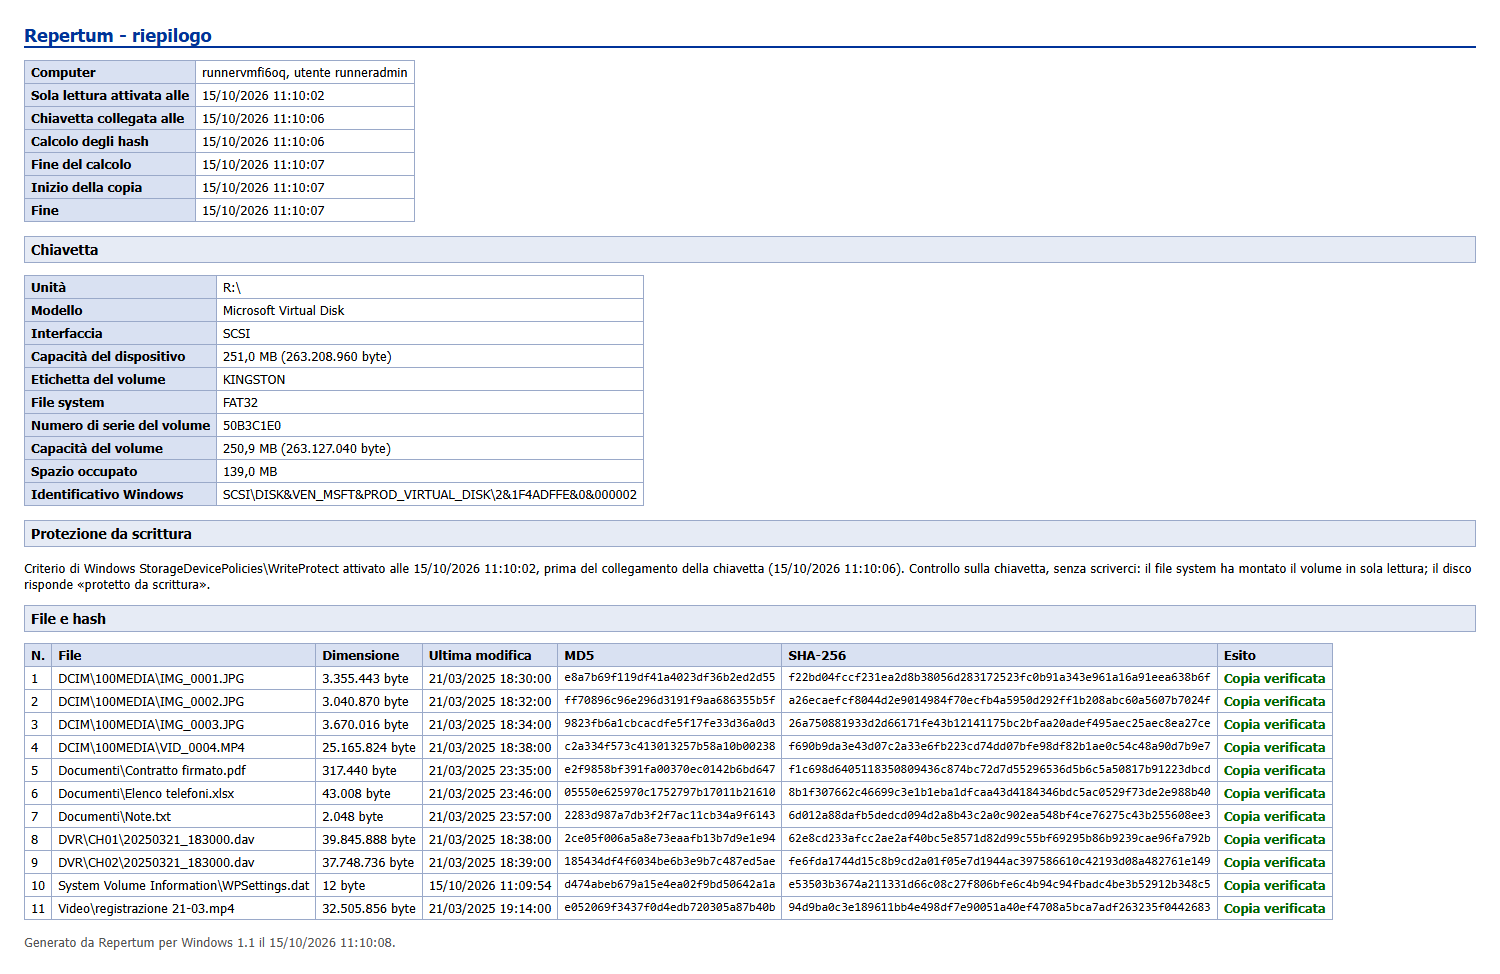
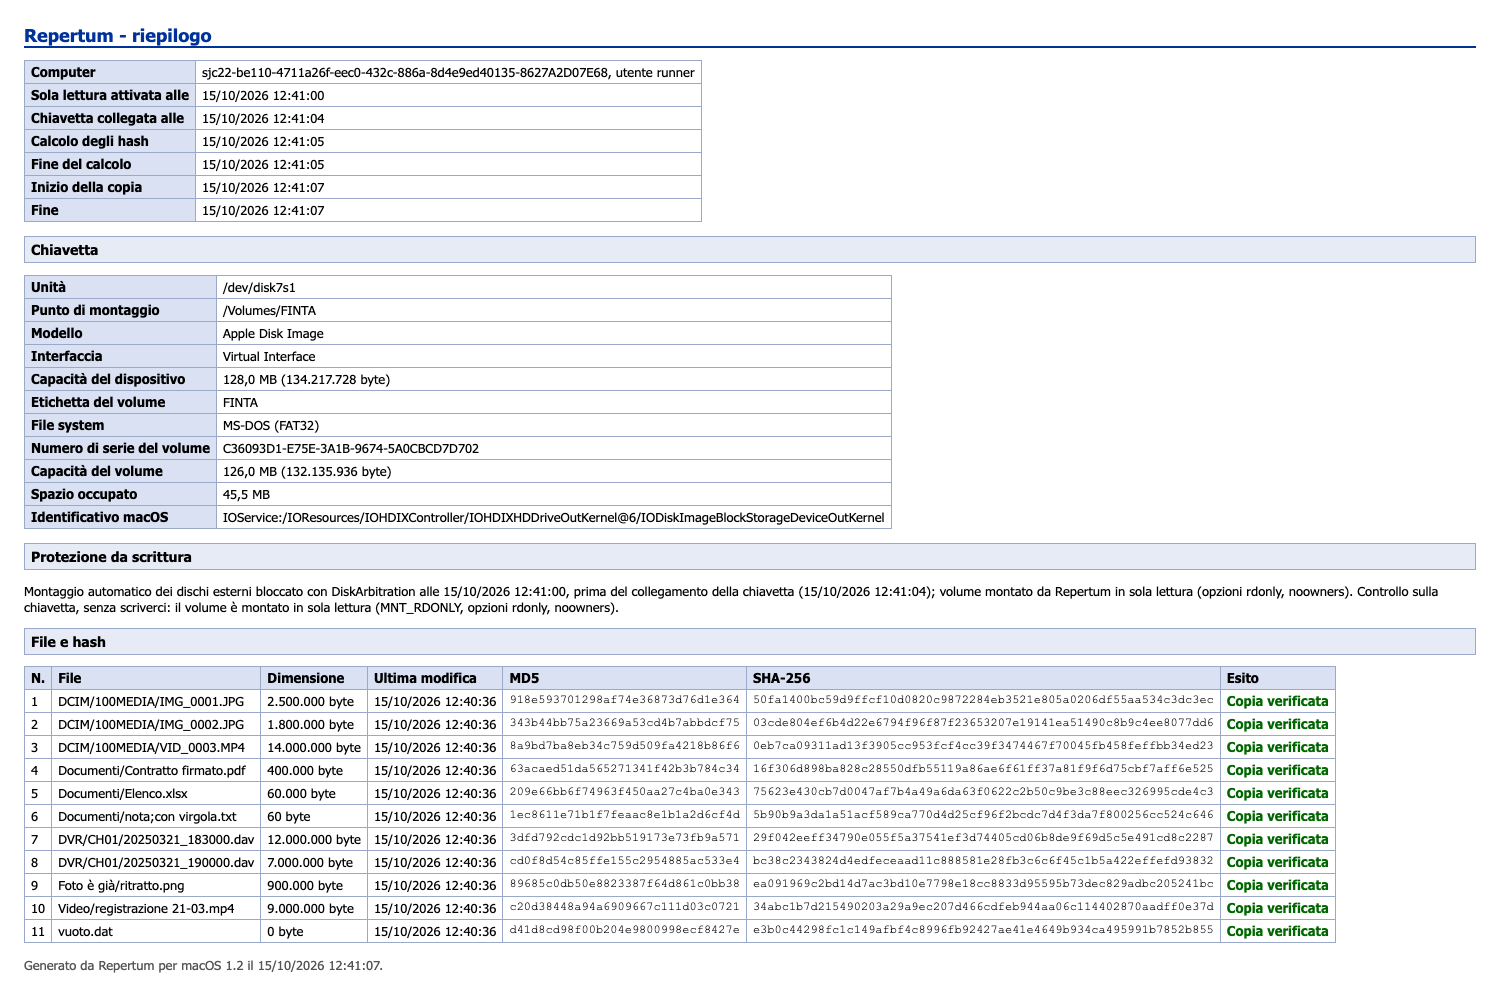
docs: README, novità, GIF di macOS e Linux e rapporto d'esempio

Changed region(s): [[0.0, 0.0308, 0.9813, 0.9856]]

diff --git a/tools/gif/crea_gif.py b/tools/gif/crea_gif.py
@@ -11,6 +11,7 @@ cosi' la registrazione resta fedele e la GIF si puo' rifare con altri tempi.
 Uso:
     python3 crea_gif.py <fotogrammi> <uscita.gif> [--larghezza 880]
                         [--pausa-max 1600] [--fine 3500] [--velocita 1.0]
+                        [--da f00002.png] [--fino-a f00063.png]
 """
 import argparse
 import csv
@@ -116,9 +117,16 @@ def main():
     a.add_argument("--pausa-max", type=int, default=1600, help="durata massima di un fotogramma fermo (ms)")
     a.add_argument("--fine", type=int, default=3500, help="durata dell'ultimo fotogramma (ms)")
     a.add_argument("--velocita", type=float, default=1.0, help=">1 accelera le parti in movimento")
+    a.add_argument("--da", help="primo fotogramma da usare (nome del PNG)")
+    a.add_argument("--fino-a", help="ultimo fotogramma da usare (nome del PNG)")
     o = a.parse_args()
 
-    fotogrammi = componi(leggi(o.fotogrammi), o.pausa_max, o.fine, o.velocita)
+    righe = leggi(o.fotogrammi)
+    nomi = [os.path.basename(r["file"]) for r in righe]
+    inizio = nomi.index(o.da) if o.da else 0
+    fine = nomi.index(o.fino_a) + 1 if o.fino_a else len(righe)
+    righe = righe[inizio:fine]
+    fotogrammi = componi(righe, o.pausa_max, o.fine, o.velocita)
     rgb = []
     for img, ms in fotogrammi:
         img = img.convert("RGB")

diff --git a/README.md b/README.md
@@ -1,0 +1,262 @@
+<div align="center">
+
+<img src="docs/icona.png" width="96" alt="">
+
+# Repertum
+
+**Copia i file di una chiavetta USB senza alterarla, con l'hash di ogni file e un report pronto da allegare.**
+
+Blocca la scrittura prima che la chiavetta venga collegata, la legge in sola lettura, calcola SHA-256 e MD5,
+copia i file e controlla che ogni copia sia identica all'originale. Una finestra, un pulsante.
+
+[![Ultima versione](https://img.shields.io/github/v/release/erold90/repertum?label=versione&color=2563eb)](https://github.com/erold90/repertum/releases/latest)
+[![Windows](https://img.shields.io/github/actions/workflow/status/erold90/repertum/windows.yml?branch=main&label=Windows&logo=windows)](https://github.com/erold90/repertum/actions/workflows/windows.yml)
+[![macOS](https://img.shields.io/github/actions/workflow/status/erold90/repertum/macos.yml?branch=main&label=macOS&logo=apple)](https://github.com/erold90/repertum/actions/workflows/macos.yml)
+[![Linux](https://img.shields.io/github/actions/workflow/status/erold90/repertum/linux.yml?branch=main&label=Linux&logo=linux&logoColor=white)](https://github.com/erold90/repertum/actions/workflows/linux.yml)
+![rete: nessuna](https://img.shields.io/badge/rete-nessuna-3ddc97)
+[![Licenza MIT](https://img.shields.io/badge/licenza-MIT-lightgrey)](LICENSE)
+
+[**Scarica**](https://github.com/erold90/repertum/releases/latest) · [Come si usa](#come-si-usa) · [Cosa produce](#cosa-trovi-nella-cartella-salvata) · [Come funziona](#come-funziona-il-blocco-della-scrittura) · [Limiti](#limiti) · [English](#in-english)
+
+</div>
+
+<p align="center">
+  <img src="docs/windows.gif" alt="Repertum su Windows: si collega la chiavetta, Repertum la legge e calcola gli hash, si preme «Salva copia e hash» e ogni copia viene verificata" width="880">
+  <br>
+  <sub>Registrazione vera su Windows, fatta dal collaudo automatico con una chiavetta simulata.</sub>
+</p>
+
+## Perché
+
+Collegare una chiavetta a un computer la modifica, anche se non si apre nessun file:
+
+- **Windows** ci crea `System Volume Information`;
+- **macOS** ci scrive `.Spotlight-V100`, `.fseventsd` e i file `._`;
+- **Linux** può riprodurre il journal di un file system ext4 e aggiornarne la data di montaggio.
+
+Quando la chiavetta è una prova, o un documento da conservare così com'è, queste scritture
+sono un problema: cambiano il supporto e mettono in discussione le copie.
+
+Repertum fa le cose nell'ordine giusto:
+
+1. **blocca la scrittura** prima che la chiavetta venga collegata;
+2. **controlla** che risulti davvero in sola lettura, senza scriverci;
+3. **legge** ogni file e ne calcola SHA-256 e MD5;
+4. **copia** i file e **rilegge ogni copia** per confrontarne l'hash con l'originale;
+5. **scrive un report** con tutto quello che è successo e quando;
+6. alla chiusura **rimette il computer com'era**.
+
+Il nome viene dal latino *repertum*, «ciò che è stato trovato»: in italiano, il reperto.
+
+## Scarica
+
+| Sistema | File | Note |
+|---|---|---|
+| **Windows** 10 e 11 | [`Repertum.exe`](https://github.com/erold90/repertum/releases/latest/download/Repertum.exe) | Un file da circa 150 KB. Usa .NET Framework 4.8, che Windows ha già |
+| **macOS** 12 o successivo, Apple Silicon | [`Repertum-macos-arm64.zip`](https://github.com/erold90/repertum/releases/latest/download/Repertum-macos-arm64.zip) | `Repertum.app` |
+| **macOS** 12 o successivo, Intel | [`Repertum-macos-x64.zip`](https://github.com/erold90/repertum/releases/latest/download/Repertum-macos-x64.zip) | `Repertum.app` |
+| **Linux** x64 | [`Repertum-linux-x64.tar.gz`](https://github.com/erold90/repertum/releases/latest/download/Repertum-linux-x64.tar.gz) | Un eseguibile. Servono X11 o XWayland e `pkexec` (polkit) |
+
+Non si installa niente e non si collega a internet. Le impronte dei file scaricati sono in
+`SHA256SUMS.txt`, accanto a ogni rilascio.
+
+<details>
+<summary><b>Il primo avvio</b>: gli avvisi di Windows e macOS</summary>
+
+Repertum non è firmato con un certificato commerciale, quindi la prima volta il sistema avvisa.
+
+- **Windows**: «Windows ha protetto il PC» → *Ulteriori informazioni* → *Esegui comunque*.
+  Poi chiede di essere eseguito come amministratore: serve per attivare il blocco della scrittura.
+- **macOS**: tasto destro su `Repertum.app` → *Apri* → *Apri*. Sulle versioni più recenti:
+  *Impostazioni di Sistema* → *Privacy e sicurezza* → *Apri comunque*. La prima volta che legge
+  una chiavetta, macOS può chiedere il permesso di accedere ai volumi rimovibili: va concesso.
+- **Linux**: `tar xzf Repertum-linux-x64.tar.gz && ./Repertum/Repertum`. All'avvio chiede la
+  password di amministratore (pkexec) per il blocco della scrittura. Nella cartella ci sono anche
+  `repertum.desktop` e l'icona, per aggiungerlo al menu delle applicazioni.
+
+</details>
+
+## Come si usa
+
+1. **Apri Repertum prima di collegare la chiavetta.** Se ce n'è già una collegata, ti chiede di scollegarla.
+2. **Collega la chiavetta.** Repertum la riconosce, controlla che sia in sola lettura ed elenca i file mentre ne calcola gli hash.
+3. **Premi «Salva copia e hash».** I file sono già tutti spuntati; se togli le spunte, salva solo gli hash.
+4. **Scollega la chiavetta e chiudi Repertum.** Il computer torna com'era.
+
+Se accanto a «Blocco scrittura» compare un **avviso rosso**, la chiavetta non risulta in sola lettura:
+scollegala, riavvia il computer e riprova.
+
+### Anche su macOS e Linux
+
+Stessa finestra, stesso pulsante, stessi file prodotti.
+
+<table>
+  <tr>
+    <td width="50%"><img src="docs/macos.gif" alt="Repertum su macOS"></td>
+    <td width="50%"><img src="docs/linux.gif" alt="Repertum su Linux"></td>
+  </tr>
+  <tr>
+    <td align="center"><sub>macOS: la chiavetta viene montata in sola lettura da Repertum</sub></td>
+    <td align="center"><sub>Linux: la chiavetta diventa di sola lettura per il kernel</sub></td>
+  </tr>
+</table>
+
+### Ricontrollare le copie
+
+<p align="center">
+  <img src="docs/verifica.gif" alt="La scheda Verifica: prima tutto integro, poi un byte alterato in una copia e il file segnato in rosso" width="880">
+</p>
+
+Nella scheda **Verifica** scegli una cartella salvata da Repertum (oppure trascinala su `Repertum.exe`):
+ogni file viene riletto e confrontato con gli hash salvati. Basta un byte diverso perché il file risulti
+**alterato**. Serve prima di consegnare o caricare le copie, anche a distanza di anni.
+
+## Cosa trovi nella cartella salvata
+
+Ogni salvataggio va in una cartella nuova, chiamata con data, ora ed etichetta della chiavetta:
+`C:\Repertum\2026-10-15_1030_KINGSTON` su Windows, `~/Repertum/…` su macOS e Linux.
+Si può sceglierne un'altra con **Salva in**, prima di salvare.
+
+```text
+2026-10-15_1030_KINGSTON/
+├── File/              le copie, con le stesse cartelle della chiavetta (in sola lettura)
+├── RIEPILOGO.txt      il report: orari, chiavetta, protezione, ogni file con i suoi hash
+├── RAPPORTO.html      lo stesso report impaginato, da stampare
+├── HASH.sha256        gli hash SHA-256, nel formato di sha256sum
+├── HASH.md5           gli hash MD5, nel formato di md5sum
+├── INVENTARIO.csv     tutti i file con dimensione, date e hash; si apre con Excel
+└── LOG.txt            ogni operazione con il suo orario
+```
+
+`HASH.sha256` e `HASH.md5` si possono controllare anche senza Repertum:
+
+```sh
+cd 2026-10-15_1030_KINGSTON/File
+sha256sum -c ../HASH.sha256        # Linux
+shasum -a 256 -c ../HASH.sha256    # macOS
+```
+
+<details>
+<summary><b>Il report da stampare</b> (RAPPORTO.html)</summary>
+<br>
+<sub>Un rapporto vero, prodotto dal collaudo su macOS con una chiavetta simulata.</sub>
+<br>
+<img src="docs/rapporto.png" alt="Il rapporto HTML: orari, dati della chiavetta, protezione da scrittura e tabella dei file con MD5, SHA-256 ed esito della copia">
+</details>
+
+## Come funziona il blocco della scrittura
+
+<!-- WINDOWS -->
+### Windows
+
+All'avvio Repertum attiva il criterio di sistema `StorageDevicePolicies\WriteProtect`: da quel momento
+Windows monta **in sola lettura** ogni dispositivo di archiviazione USB che viene collegato.
+Il criterio vale solo per i dispositivi collegati dopo, ed è per questo che la chiavetta va collegata
+a Repertum già aperto. Alla chiusura il criterio torna esattamente com'era. Se il programma si
+interrompe, lo stato precedente resta annotato in `HKLM\SOFTWARE\Repertum`: basta riaprire e
+richiudere Repertum.
+
+Collegata la chiavetta, Repertum controlla, senza scriverci, che il volume sia montato in sola lettura
+(`FILE_READ_ONLY_VOLUME`) e che il disco risponda «protetto da scrittura» (`IOCTL_DISK_IS_WRITABLE`).
+Il report riporta l'ora di attivazione del blocco, l'ora del collegamento e l'esito del controllo.
+
+### macOS
+
+Repertum usa **Disk Arbitration**, il servizio con cui macOS monta i dischi, e non chiede la
+password di amministratore. All'avvio registra un controllo che **rifiuta il montaggio automatico**
+dei dischi esterni; quando colleghi la chiavetta, la monta lui stesso **in sola lettura**
+(`rdonly`, `noowners`). Così Finder, Spotlight e `fseventsd` non possono scriverci: niente
+`.Spotlight-V100`, `.fseventsd` o file `._`. Poi controlla con `statfs` che il volume sia davvero
+montato in sola lettura (`MNT_RDONLY`).
+
+Se il programma si chiude, anche all'improvviso, macOS toglie da solo il controllo: il Mac torna a
+montare i dischi come prima.
+
+### Linux
+
+All'avvio Repertum chiede la password di amministratore con `pkexec` e avvia un piccolo aiutante
+con i permessi necessari. L'aiutante installa una regola udev temporanea
+(`/run/udev/rules.d/00-repertum.rules`): ogni disco USB collegato viene ignorato dal montaggio
+automatico del desktop (`UDISKS_IGNORE`) e reso **di sola lettura per il kernel**
+(`blockdev --setro`) prima che chiunque possa montarlo. Poi la chiavetta viene montata in sola
+lettura con le opzioni giuste per ogni file system: per esempio `noload` per ext4, così il journal
+non viene riprodotto. Repertum controlla `/sys/block/…/ro` e `statvfs` (`ST_RDONLY`).
+
+Alla chiusura, o se la finestra si chiude all'improvviso, l'aiutante smonta la chiavetta, toglie la
+regola e ricarica udev.
+
+
+### Gli hash
+
+SHA-256 e MD5 vengono calcolati in un'unica lettura di ogni file, con le librerie crittografiche
+del sistema. Dopo la copia ogni file copiato viene **riletto dal disco di destinazione** e il suo
+SHA-256 confrontato con quello dell'originale. Solo allora la riga diventa «Copia verificata» e la
+copia viene messa in sola lettura.
+
+## Limiti
+
+Meglio saperli prima:
+
+- **È un blocco software, non un write-blocker hardware.** Si affida al sistema operativo. Quando
+  serve la massima garanzia, un write-blocker hardware resta la scelta più solida.
+- **Copia i file, non fa un'immagine del disco.** File cancellati, spazio non allocato e tabella
+  delle partizioni non vengono acquisiti. Per una copia bit a bit servono strumenti come
+  FTK Imager, `dc3dd` o Guymager.
+- **La chiavetta va collegata dopo l'avvio.** Una chiavetta già collegata non è protetta.
+- **Mentre Repertum è aperto, tutte le chiavette collegate sono in sola lettura**, anche quella
+  su cui vorresti salvare. Salva sul disco del computer, chiudi Repertum, poi copia la cartella
+  dove ti serve.
+- **Su macOS, mentre Repertum è aperto, nessun disco esterno si monta da solo**: li monta Repertum,
+  in sola lettura. Su Linux i file di un file system ext4 che l'utente non ha il permesso di leggere
+  risultano «NON LEGGIBILE».
+- **Il collaudo automatico usa chiavette simulate**: un disco virtuale su Windows, un'immagine disco
+  su macOS, un dispositivo loop su Linux. Prima di usarlo su qualcosa che conta, fai una prova con
+  una chiavetta qualunque e controlla che compaia «Sola lettura: Sì, verificata».
+- L'interfaccia è solo in italiano.
+
+Repertum non è uno strumento certificato. È distribuito con licenza MIT, senza garanzie: verifica che
+il suo uso sia adatto al tuo caso.
+
+## Collaudo
+
+Ogni modifica passa da GitHub Actions su Windows, macOS e Linux:
+
+1. compilazione e schermate di tutti gli stati con dati finti;
+2. **flusso vero**: si avvia Repertum, si collega una chiavetta simulata, si salva tutto;
+3. gli hash prodotti vengono confrontati con quelli calcolati dagli strumenti del sistema
+   (`Get-FileHash`, `shasum`, `sha256sum`) e le copie con gli originali;
+4. su macOS e Linux l'**impronta dell'immagine del disco** deve essere identica prima e dopo:
+   la prova che la chiavetta non è stata toccata;
+5. alla chiusura il computer deve essere tornato com'era (criterio di Windows, Disk Arbitration,
+   regola udev).
+
+Le GIF di questa pagina vengono dallo stesso collaudo: le registra il workflow
+[`GIF della documentazione`](.github/workflows/gif.yml).
+
+## Struttura
+
+```text
+src/
+├── Repertum.Core/       hash, report, verifica: il codice comune alle tre piattaforme
+├── Repertum.Windows/    l'app Windows (WinForms, .NET Framework 4.8)
+└── Repertum.Desktop/    l'app macOS e Linux (Avalonia, .NET 8)
+tools/gif/               registrazione e composizione delle GIF
+.github/workflows/       collaudo per piattaforma, GIF, rilascio
+```
+
+Per compilare e contribuire: [CONTRIBUTING.md](CONTRIBUTING.md). Per segnalare un problema di
+integrità in privato: [SECURITY.md](SECURITY.md). Le novità di ogni versione: [CHANGELOG.md](CHANGELOG.md).
+
+## In English
+
+**Repertum** copies the files of a USB stick **without altering it**. It enables a write block
+*before* the stick is plugged in (Windows `StorageDevicePolicies`, macOS Disk Arbitration, Linux
+udev + `blockdev --setro`), checks that the volume is really read-only, computes SHA-256 and MD5 of
+every file, copies them and re-reads every copy to verify it. It then writes a report
+(`RIEPILOGO.txt`, `RAPPORTO.html`, `HASH.sha256`, `HASH.md5`, `INVENTARIO.csv`, `LOG.txt`).
+It is a software write block, not a hardware one, and it copies files rather than imaging the disk.
+The interface is Italian only. MIT licensed.
+
+## Licenza
+
+[MIT](LICENSE) © 2026 Daniele Lo Re

diff --git a/CONTRIBUTING.md b/CONTRIBUTING.md
@@ -22,8 +22,11 @@ semplice o più sicuro per chi lo usa.
 | Piattaforma | Requisiti | Comando |
 |---|---|---|
 | Windows | Windows 10/11, [.NET SDK](https://dotnet.microsoft.com/download) 8 o successivo | `dotnet build src/Repertum.Windows -c Release -o out` |
-| macOS | .NET SDK 8 | `dotnet publish src/Repertum.Desktop -c Release -r osx-arm64` (oppure `osx-x64`) |
-| Linux | .NET SDK 8 | `dotnet publish src/Repertum.Desktop -c Release -r linux-x64` |
+| macOS | .NET SDK 8 | `dotnet publish src/Repertum.Desktop -c Release -r osx-arm64 --self-contained -p:PublishSingleFile=true -o out` (oppure `osx-x64`) |
+| Linux | .NET SDK 8 | `dotnet publish src/Repertum.Desktop -c Release -r linux-x64 --self-contained -p:PublishSingleFile=true -o out` |
+
+Come si costruiscono `Repertum.app` e il pacchetto Linux lo mostrano i passi «Pacchetto» di
+`.github/workflows/macos.yml` e `linux.yml`.
 
 L'app Windows usa WinForms su .NET Framework 4.8, che Windows ha già: per questo
 `Repertum.exe` è un file unico da circa 150 KB. Il Core è scritto in C# 7.3 perché lo
@@ -49,12 +52,19 @@ prodotti vengono confrontati con quelli calcolati dagli strumenti del sistema (`
 
 ## Le GIF della documentazione
 
-Le GIF in `docs/` non sono montate a mano: le registra il workflow `GIF della documentazione`
-mentre Repertum lavora davvero. Su Windows il puntatore è quello vero; su macOS e Linux è
-sintetico. `tools/gif/crea_gif.py` le compone a partire dai fotogrammi e da `frames.csv`:
+Le GIF in `docs/` non sono montate a mano: vengono da registrazioni di Repertum mentre lavora
+davvero.
+
+- **Windows**: il workflow `GIF della documentazione` muove il puntatore vero, clicca e fotografa
+  la finestra (`tools/gif/registra-windows.ps1`).
+- **macOS e Linux**: il collaudo avvia Repertum con `--automatico --registra`, e i fotogrammi
+  finiscono negli artifact `schermate-macos` e `schermate-linux`. Il puntatore è sintetico.
+
+`tools/gif/crea_gif.py` compone la GIF a partire dai fotogrammi e da `frames.csv`, disegnando il
+puntatore e l'onda del clic:
 
 ```sh
-python3 tools/gif/crea_gif.py <cartella-fotogrammi> docs/windows.gif
+python3 tools/gif/crea_gif.py <cartella-fotogrammi> docs/macos.gif --da f00002.png --fino-a f00064.png
 ```
 
 ## Messaggi dei commit

diff --git a/CHANGELOG.md b/CHANGELOG.md
@@ -1,0 +1,35 @@
+# Novità
+
+Il formato segue [Keep a Changelog](https://keepachangelog.com/it/1.1.0/) e le versioni
+[Semantic Versioning](https://semver.org/lang/it/).
+
+## [1.2.0] - 2026-10-15
+
+Prima versione pubblica.
+
+### Aggiunto
+- **Versioni per macOS** (Apple Silicon e Intel) **e Linux** (x64), con la stessa interfaccia e gli stessi file prodotti della versione Windows.
+- macOS: blocco della scrittura con Disk Arbitration, senza password di amministratore. Il montaggio automatico dei dischi esterni viene rifiutato e la chiavetta viene montata in sola lettura (`rdonly`, `noowners`).
+- Linux: un aiutante avviato con `pkexec` installa una regola udev temporanea (`UDISKS_IGNORE`, `blockdev --setro`) e monta la chiavetta in sola lettura, con `noload` per ext4. Alla chiusura toglie tutto.
+- Collaudo automatico su Windows, macOS e Linux a ogni modifica, con una chiavetta simulata collegata dopo l'avvio.
+- GIF della documentazione registrate dal collaudo.
+
+### Modificato
+- Hash, report e verifica stanno in `src/Repertum.Core`, condiviso dalle tre versioni.
+- `HASH.sha256` e `HASH.md5` usano `/` nei percorsi su tutte le piattaforme, così si controllano anche con `sha256sum -c` e `shasum -c`. La verifica accetta anche le cartelle salvate dalla 1.1.
+
+### Corretto
+- Durante la copia l'intestazione («N di M file») restava indietro rispetto alle righe già verificate.
+
+## [1.1.0] - 2026-10-15
+
+### Modificato
+- Interfaccia più semplice e generica: niente dati dell'acquisizione da compilare, un solo pulsante «Salva copia e hash», due schede (Chiavetta USB e Verifica), icone disegnate.
+- La cartella prende il nome da data, ora ed etichetta della chiavetta.
+
+## [1.0.0] - 2026-10-15
+
+### Aggiunto
+- Prima versione, per Windows: blocco della scrittura sui dispositivi USB, controllo della sola lettura, SHA-256 e MD5 di ogni file, copia con verifica, report (`RIEPILOGO.txt`, `RAPPORTO.html`, `HASH.sha256`, `HASH.md5`, `INVENTARIO.csv`, `LOG.txt`) e verifica di una cartella salvata.
+
+[1.2.0]: https://github.com/erold90/repertum/releases/tag/v1.2.0
